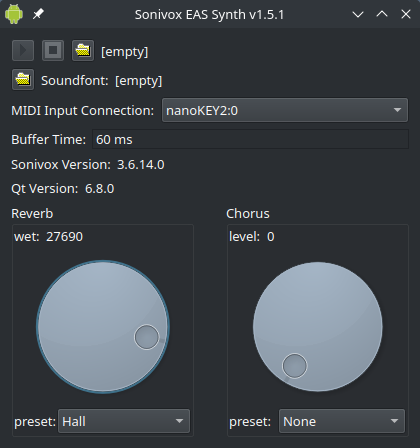
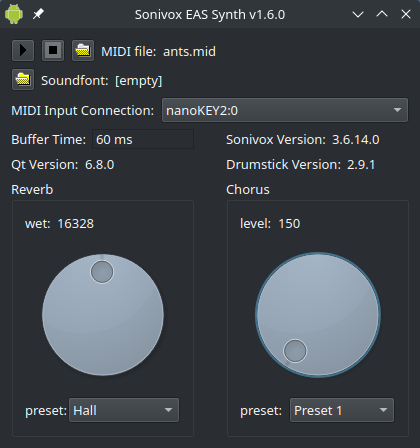
Updated compatibility
* Avoid Qt version incompatibility
* Added Drumstick version
* UI updated

diff --git a/guisynth/mainwindow.cpp b/guisynth/mainwindow.cpp
@@ -17,7 +17,9 @@
 */
 
 #include <QCloseEvent>
+#include <QDebug>
 #include <QFileDialog>
+
 #include "mainwindow.h"
 #include "programsettings.h"
 #include "ui_mainwindow.h"
@@ -48,6 +50,7 @@ MainWindow::MainWindow(QWidget *parent) :
     ui->libSonivoxVersion->setText(m_synth->renderer()->libVersion());
     setWindowTitle(windowTitle() + " v" + qApp->applicationVersion());
     ui->qtVersion->setText(qVersion());
+    ui->drumstickVersion->setText(drumstick::ALSA::getDrumstickLibraryVersion());
 
     connect(ui->combo_ALSAConn,
             &QComboBox::currentTextChanged,
@@ -146,6 +149,7 @@ MainWindow::reverbTypeChanged(int index)
 void
 MainWindow::reverbChanged(int value)
 {
+    ui->reverbWet->setNum(value);
     m_synth->renderer()->setReverbWet(value);
     ProgramSettings::instance()->setReverbWet(value);
 }
@@ -169,6 +173,7 @@ MainWindow::chorusTypeChanged(int index)
 void
 MainWindow::chorusChanged(int value)
 {
+    ui->chorusLevel->setNum(value);
     m_synth->renderer()->setChorusLevel(value);
     ProgramSettings::instance()->setChorusLevel(value);
 }
